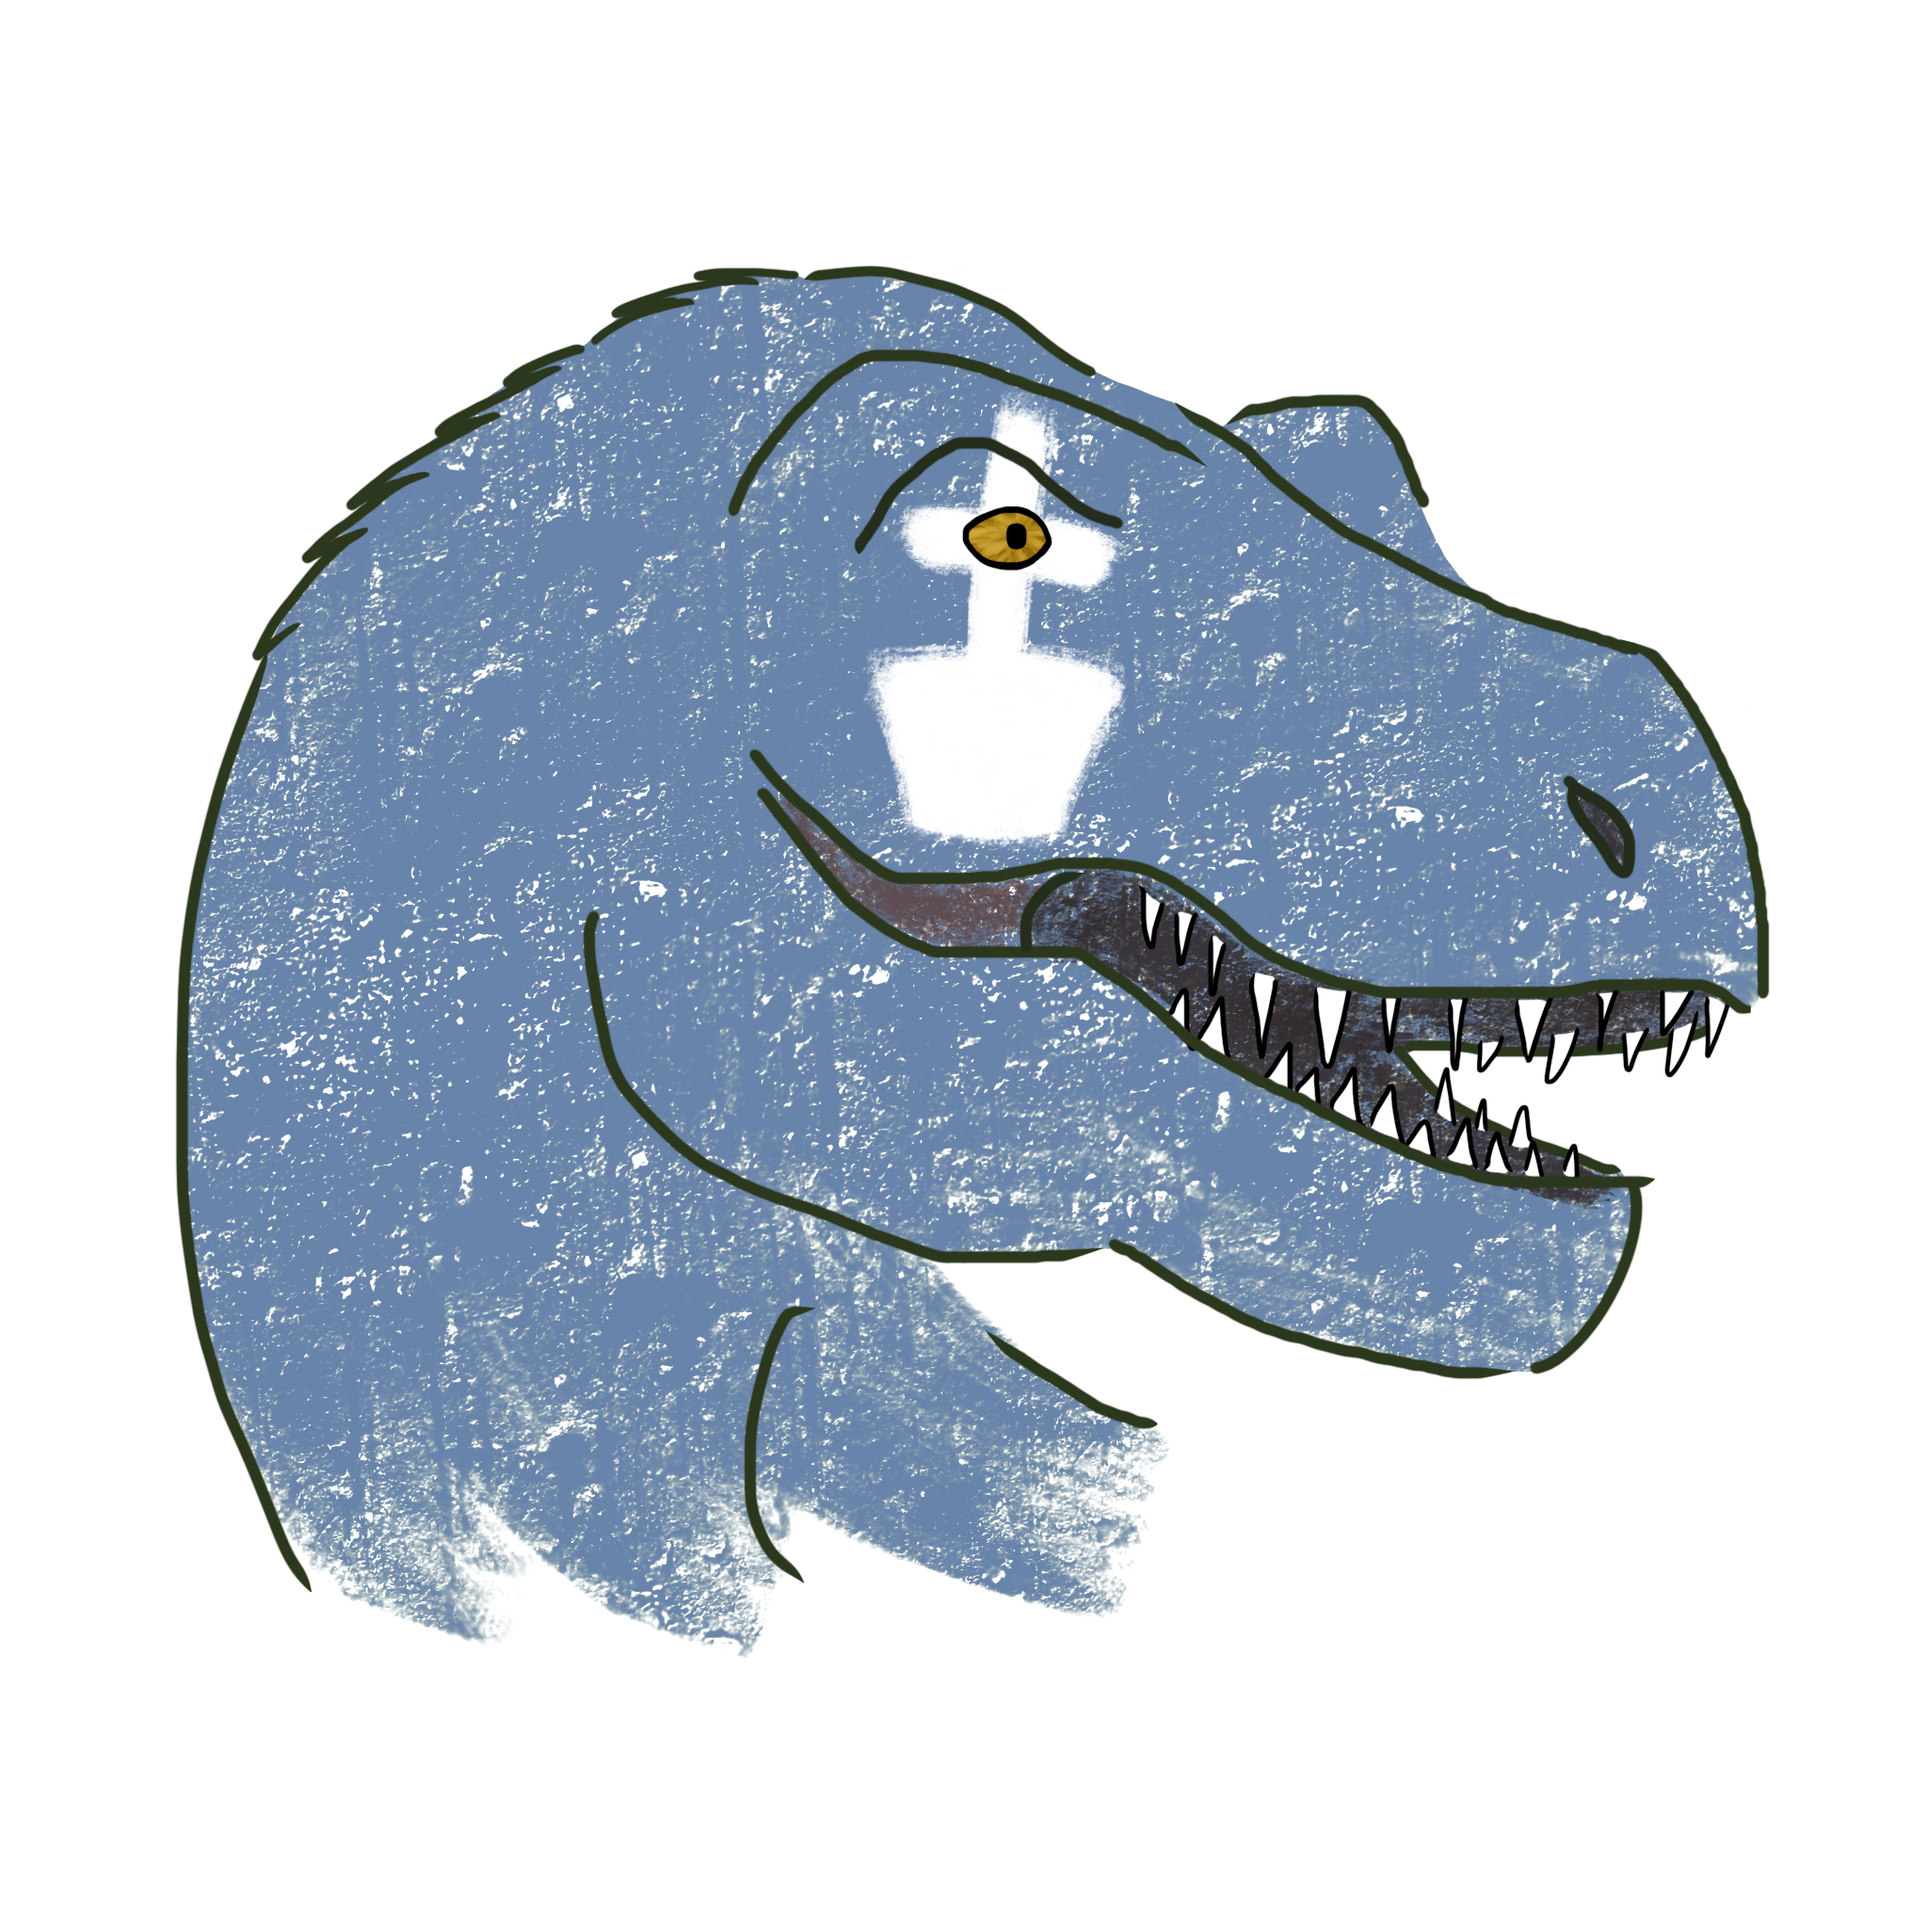
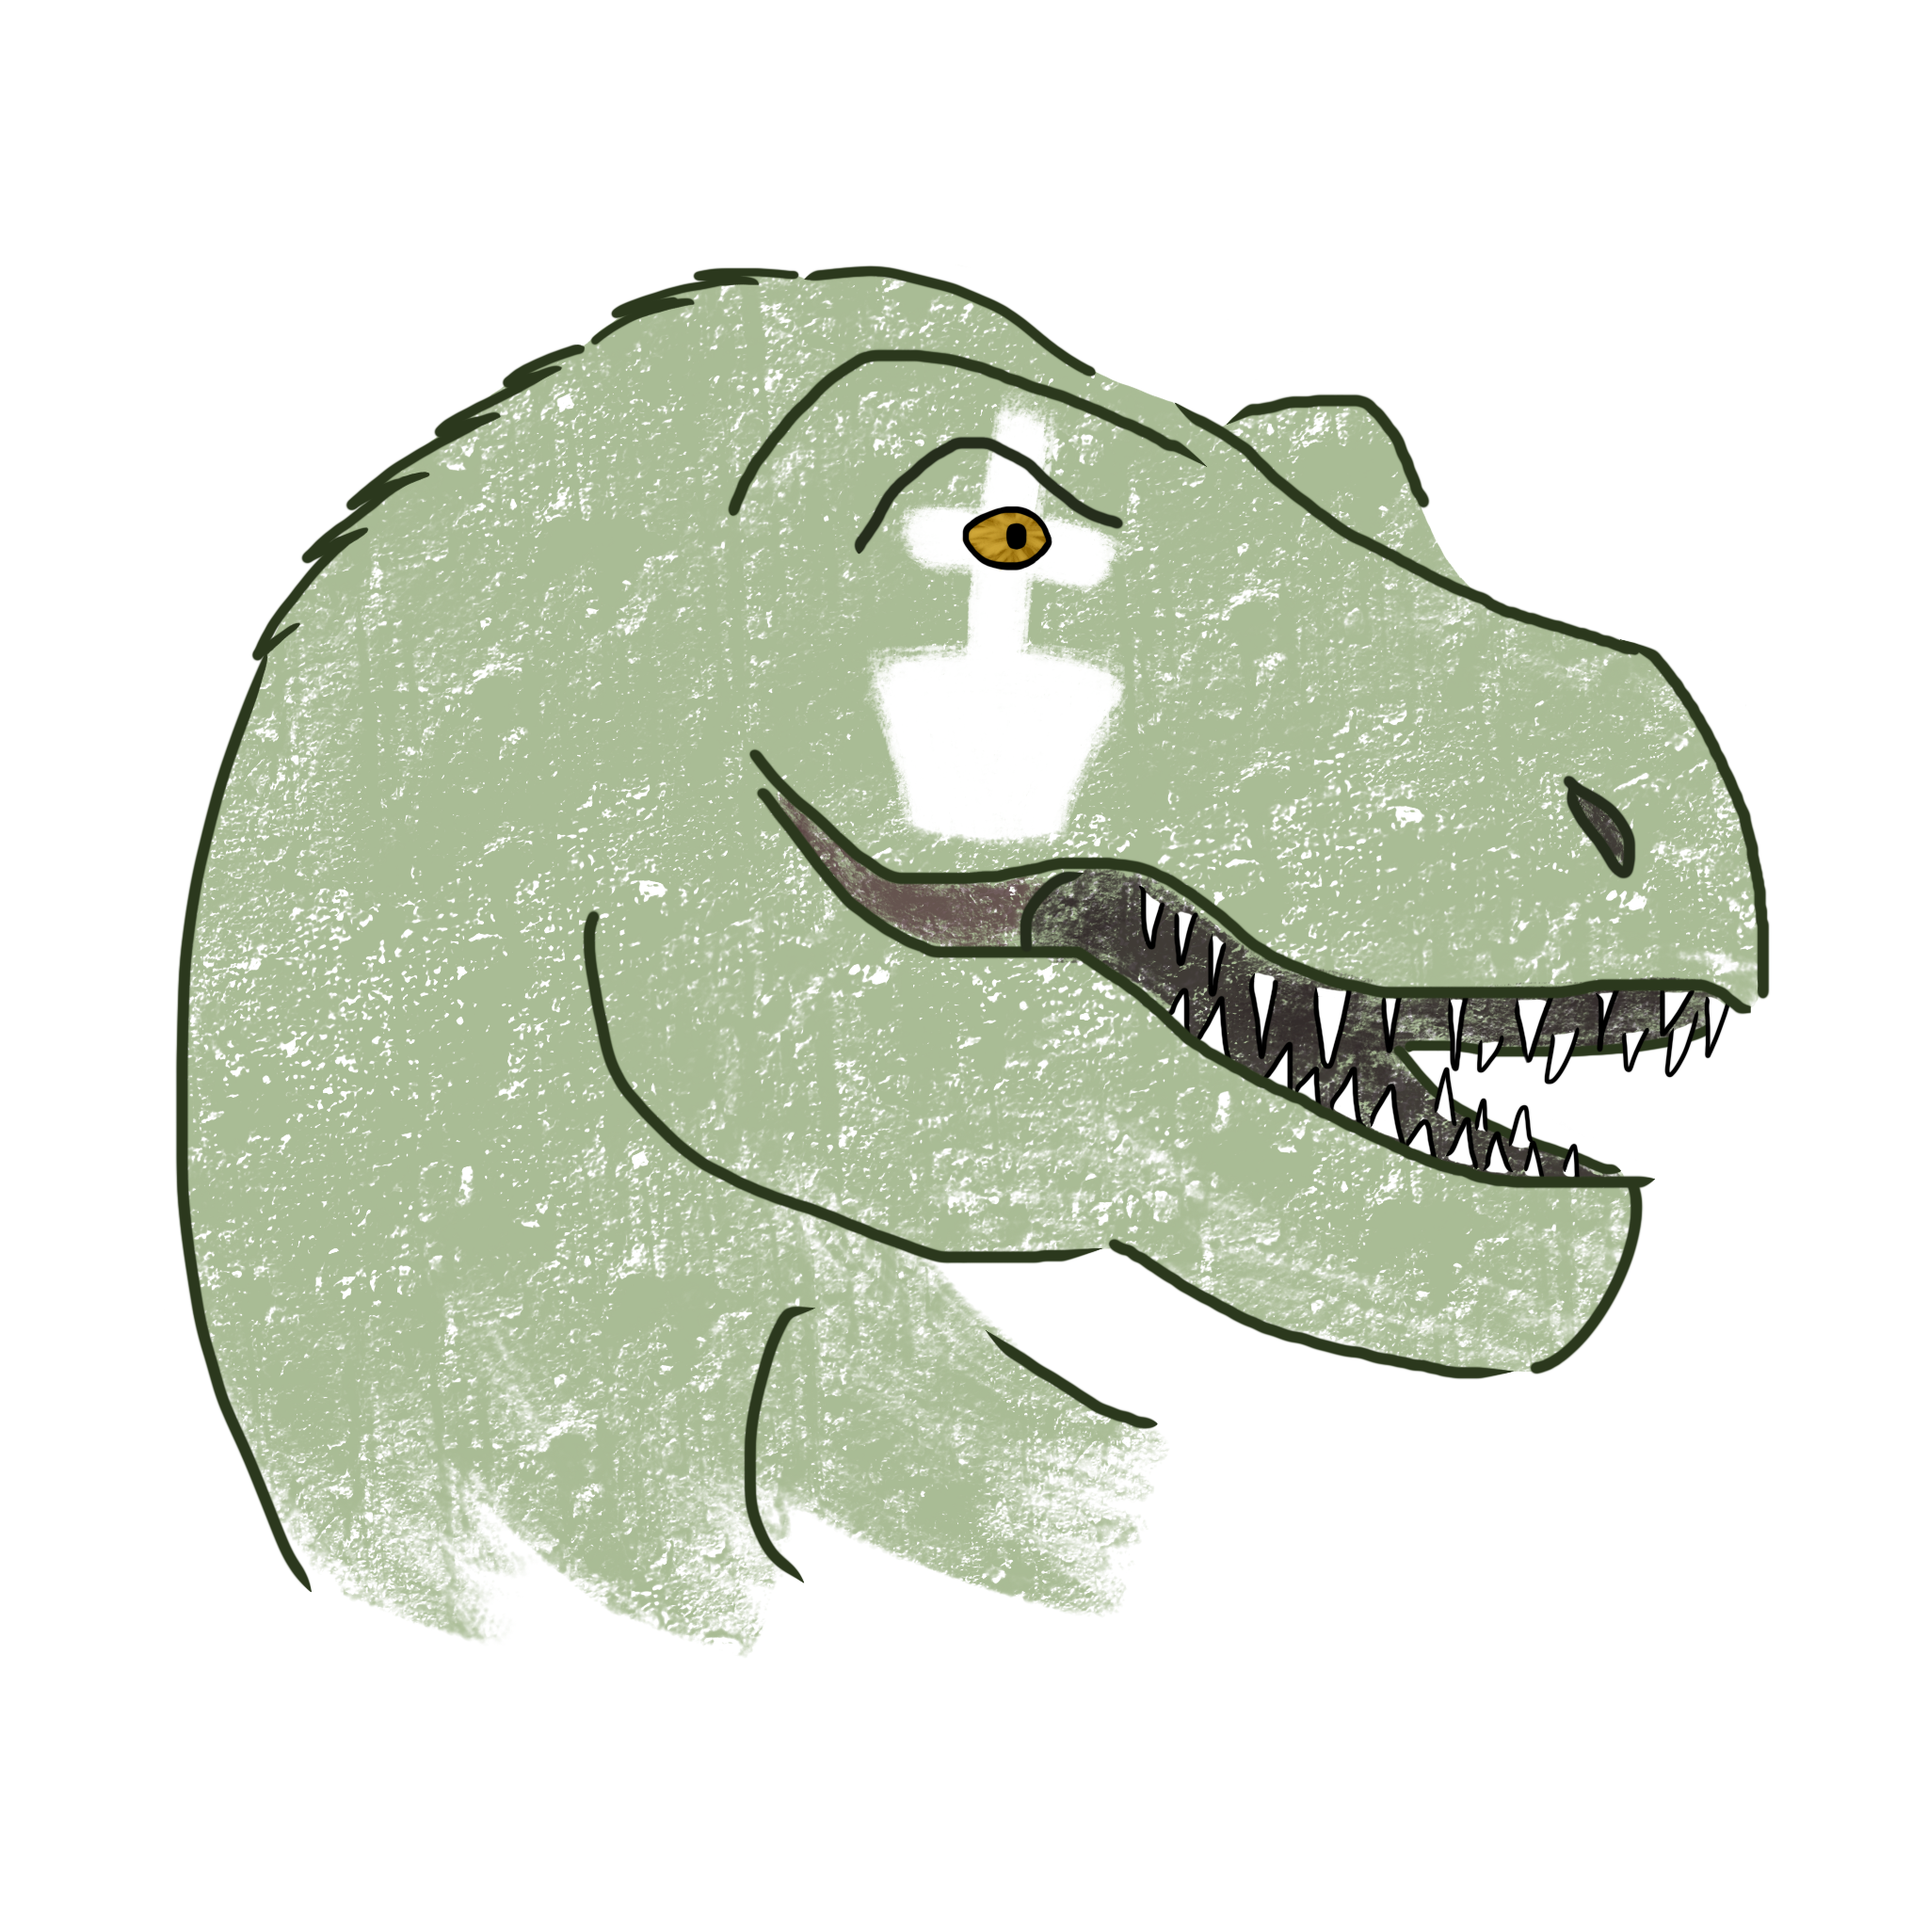
change pieces styling, change class/dino mode palletes

diff --git a/chess_django/table/static/table/styles.css b/chess_django/table/static/table/styles.css
@@ -87,24 +87,23 @@
 
 .button_black {
     color: white;
-    background-color: rgb(44, 44, 44);
-    border: 3px solid black;
+    background-color: var(--black-player-button);
+
 }
 
 .button_white {
     color: var(--primary-bg-color);
-    background-color: white;
-    border: 3px solid rgba(0, 0, 0, 0.541);
+    background-color: var(--white-player-button);
 }
 
 .button_black:hover {
-    background-color: white;
+    background-color: var(--black-player-button-hover);
     color: black;
 }
 
 .button_white:hover {
-    background-color: gray;
-    color: white;
+    background-color: var(--white-player-button-hover);
+    color: black;
 }
 
 #black_player_sit_button,
@@ -204,19 +203,24 @@ table {
 table,
 td {
     border-collapse: collapse;
+    padding: 0px;
 }
 
 td {
     width: calc(2 * var(--square-size));
     height: calc(2 * var(--square-size));
+    max-width: calc(2 * var(--square-size));
+    max-height: calc(2 * var(--square-size));
     min-width: calc(2 * var(--square-size));
     min-height: calc(2 * var(--square-size));
-    font-size: var(--square-size);
 }
 
 .pieceImage {
-    width: calc(2 * var(--square-size));
-    height: calc(2 * (var(--square-size) - 1/8 * var(--square-size)));
+    max-width: 100%;
+    max-height: 100%;
+    width: auto;
+    height: auto;
+    display: block;
 }
 
 @media (max-aspect-ratio: 16/9) {
@@ -271,11 +275,11 @@ td.checking {
 }
 
 .dark {
-    background-color: rgba(0, 60, 128, 0.589);
+    background-color: var(--dark-square);
 }
 
 .light {
-    background-color: rgba(0, 81, 128, 0.24);
+    background-color: var(--light-square);
 }
 
 .darkGreen {

diff --git a/chess_django/menu/static/menu/styles_layout.css b/chess_django/menu/static/menu/styles_layout.css
@@ -10,11 +10,27 @@
     --width-big-screen: calc(100% - var(--sidebar-expanded-width));
     --width-medium-screen: calc(100% - var(--sidebar-width));
     --width-small-screen: 100%;
+
+    --dark-square: #7f745c;
+    --light-square: #e7deca;
+
+    --white-player-button: #9db286;
+    --black-player-button: #d68f52;
+    --white-player-button-hover: #c2d5ae;
+    --black-player-button-hover: #f4b986;
 }
 
 :root.classic-mode {
     --primary-bg-color: #12171e;
     --classic-background-color: rgb(54, 54, 54);
+    
+    --dark-square: rgba(0, 60, 128, 0.589);
+    --light-square: rgba(0, 81, 128, 0.24);
+
+    --white-player-button: white;
+    --black-player-button: rgb(44, 44, 44);
+    --white-player-button-hover: gray;
+    --black-player-button-hover: gray;
 
     #main-content {
         background: var(--classic-background-color);
